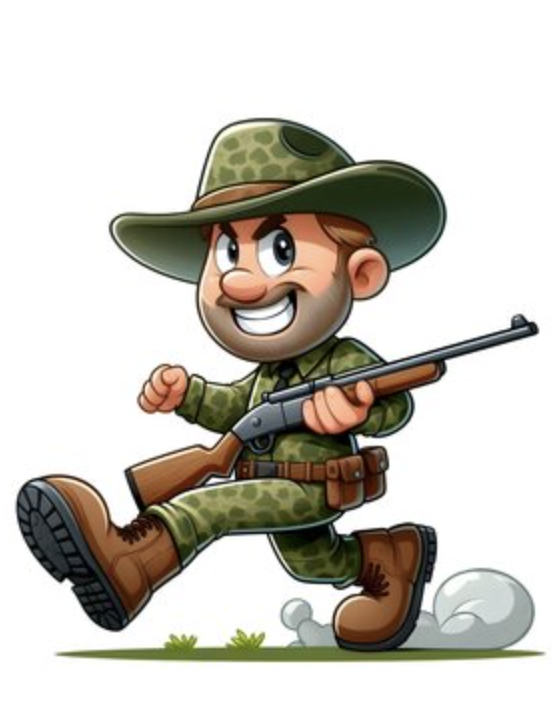
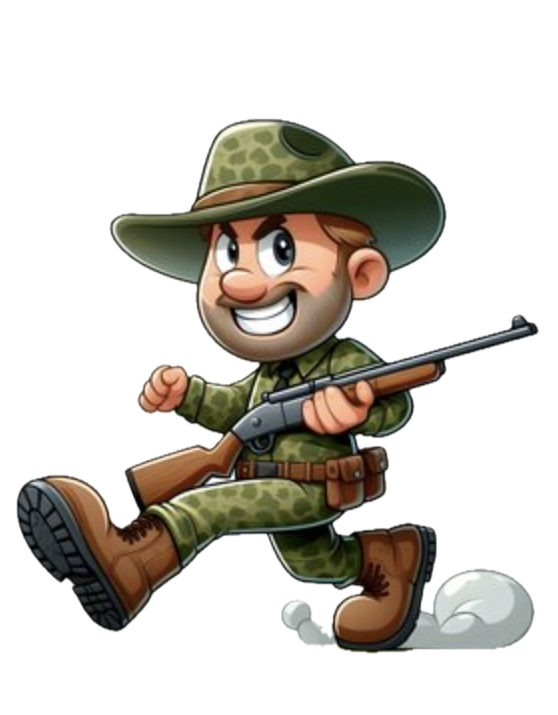
Made new character names hunter and new intersections

diff --git a/src/Lion.java b/src/Lion.java
@@ -2,51 +2,63 @@ import java.awt.*;
 
 public class Lion {
 
-        //VARIABLE DECLARATION SECTION
-        //Here's where you state which variables you are going to use.
-        public String name;                //holds the name of the hero
-        public int xpos;                //the x position
-        public int ypos;                //the y position
-        public int dx;                    //the speed of the hero in the x direction
-        public int dy;                    //the speed of the hero in the y direction
-        public int width;
-        public int height;
-        public int shark;
-        public boolean isAlive;//a boolean to denote if the hero is alive or dead.
-        public Rectangle hitbox;
+    //VARIABLE DECLARATION SECTION
+    //Here's where you state which variables you are going to use.
+    public String name;                //holds the name of the hero
+    public int xpos;                //the x position
+    public int ypos;                //the y position
+    public int dx;                    //the speed of the hero in the x direction
+    public int dy;                    //the speed of the hero in the y direction
+    public int width;
+    public int height;
+    public int shark;
+    public boolean isAlive;//a boolean to denote if the hero is alive or dead.
+    public Rectangle hitbox;
 
 
-        //This is the constructor that declares the variables
-        public Lion(int pXpos, int pYpos) {
-            xpos = pXpos;
-            ypos = pYpos;
-            dx = 10;
-            dy = 4;
-            width = 60;
-            height = 60;
-            isAlive = true;
-            hitbox = new Rectangle(xpos, ypos, width, height);
+    //This is the constructor that declares the variables
+    public Lion(int pXpos, int pYpos) {
+        xpos = pXpos;
+        ypos = pYpos;
+        dx = 10;
+        dy = 4;
+        width = 90;
+        height = 90;
+        isAlive = true;
+        hitbox = new Rectangle(xpos, ypos, width, height);
+    }
+
+    //The move method. Everytime this is run (or "called") the hero's x position and y position change by dx and dy
+    public void move() {
+        xpos = xpos + dx;
+        ypos = ypos + dy;
+
+        if (xpos >= 1000 - width) {//bounce of right wall
+            dx = -dx;
+        }
+        if (ypos >= 700 - height) {//bounce of bottom wall
+            dy = -dy;
         }
 
-        //The move method. Everytime this is run (or "called") the hero's x position and y position change by dx and dy
-        public void move() {
-            xpos = xpos + dx;
-            ypos = ypos + dy;
+        if (xpos < 0) {
+            dx = -dx;
+        }//Bounce of left wall
+        if (ypos < 0) {
+            dy = -dy;
+        }// Bounce of top wall
 
-            if (xpos >= 1000 - width) {//bounce of right wall
-                dx = -dx;
-            }
-            if (ypos >= 700 - height) {//bounce of bottom wall
-                dy = -dy;
-            }
+    }
 
-            if (xpos<0){dx=-dx;}//Bounce of left wall
-            if(ypos<0){dy=-dy;}// Bounce of top wall
-
-            updateHitbox();
+    public void shrink() {
+        //Shrinks the lion when it hits the parrot
+        if (width > 20 && height > 20) {
+            width -= 5;
+            height -= 5;
+            System.out.println("Lion is Smaller!");
         }
-
-        public void updateHitbox() {
+    }
+        public void updateHitbox () {
             hitbox.setBounds(xpos, ypos, width, height);
         }
-}
+    }
+

diff --git a/src/Hunter.java b/src/Hunter.java
@@ -1,3 +1,61 @@
+import java.awt.*;
+
 public class Hunter {
 
+    //VARIABLE DECLARATION SECTION
+    //Here's where you state which variables you are going to use.
+    public String name;                //holds the name of the hero
+    public int xpos;                //the x position
+    public int ypos;                //the y position
+    public int dx;                    //the speed of the hero in the x direction
+    public int dy;                    //the speed of the hero in the y direction
+    public int width;
+    public int height;
+    public int fish;
+    public boolean isAlive;//a boolean to denote if the hero is alive or dead.
+    public Rectangle hitbox;
+
+    //This is the constructor that declares the variables
+    public Hunter (int pXpos, int pYpos) {
+        xpos = pXpos;
+        ypos = pYpos;
+        dx = 10;
+        dy = 4;
+        width = 100;
+        height = 100;
+        isAlive = true;
+        hitbox = new Rectangle(xpos, ypos, width, height);
+    }
+
+    //The move method. Everytime this is run (or "called") the hero's x position and y position change by dx and dy
+    public void move() {
+
+        xpos = xpos + dx;
+        ypos = ypos + dy;
+        if (xpos >= 1000 - width) {//bounce of right wall
+            dx = -dx;
+        }
+        if (ypos >= 700 - height) {//bounce of bottom wall
+            dy = -dy;
+        }
+        if (xpos < 0) {// Bounce of Left wall
+            dx = -dx;
+        }
+        if (ypos < 0) {//Bounce of top wall
+            dy = -dy;
+        }
+
+        hitbox = new Rectangle(xpos, ypos, width, height);
+
+    }
+
+    // Method that increases the fish when it hits the seaweed
+    public void increase() {
+
+        if (width > 2 && height > 2) {
+            width += 4;
+            height += 4;
+            System.out.println("Fish gets Bigger!");
+        }
+    }
 }

diff --git a/src/BasicGameApp.java b/src/BasicGameApp.java
@@ -61,7 +61,8 @@ public class BasicGameApp implements Runnable, KeyListener, MouseListener {
         monkey = new Monkey(100, 100);
         parrot = new Parrot(300, 200);
         lion = new Lion(500, 400);
-       hunter = new Hunter(400, 300);
+        hunter = new Hunter(600, 300);
+
 
     }// BasicGameApp()
 
@@ -85,16 +86,22 @@ public class BasicGameApp implements Runnable, KeyListener, MouseListener {
         monkey.move();
         parrot.move();
         lion.move();
+        hunter.move();
     }
 
     // Method that checks for collisions
     public void crashing() {
-        if (monkey.hitbox != null && lion.hitbox != null && monkey.hitbox.intersects(lion.hitbox) && monkey.isAlive) {
-            parrot.shrink();
-            if (lion.width <= 20) {
+
+
+        if (hunter.isAlive && lion.isAlive && hunter.hitbox.intersects(lion.hitbox)) {
+            System.out.println("Lion died :(");
+            lion.isAlive = false;
+        }
+        // Parrot shrinks lion when they crash
+        if (lion.hitbox.intersects(parrot.hitbox) && parrot.isAlive) {
+            if (lion.width >= 20) {// shrinks
                 lion.isAlive = false;
             }
-
         }
     }
 
@@ -166,6 +173,11 @@ public class BasicGameApp implements Runnable, KeyListener, MouseListener {
         //Draws the image of Seaweed
         if (parrot.isAlive) {
             g.drawImage(ParrotPic, parrot.xpos, parrot.ypos, parrot.width, parrot.height, null);
+
+        }
+        //Draws the image of Hunter
+        if (hunter.isAlive) {
+            g.drawImage(HunterPic, hunter.xpos, hunter.ypos, hunter.width, hunter.height, null);
 
         }
         g.dispose();

diff --git a/src/Monkey.java b/src/Monkey.java
@@ -21,8 +21,8 @@ public class Monkey {
             ypos = pYpos;
             dx = 10;
             dy = 4;
-            width = 60;
-            height = 60;
+            width = 70;
+            height = 70;
             isAlive = true;
             hitbox = new Rectangle(xpos, ypos, width, height);
         }

diff --git a/src/Parrot.java b/src/Parrot.java
@@ -22,8 +22,8 @@ public class Parrot {
         ypos = pYpos;
         dx = 5;
         dy = 4;
-        width = 60;
-        height = 60;
+        width = 70;
+        height = 70;
         isAlive = true;
         hitbox = new Rectangle(xpos, ypos, width, height);
     }